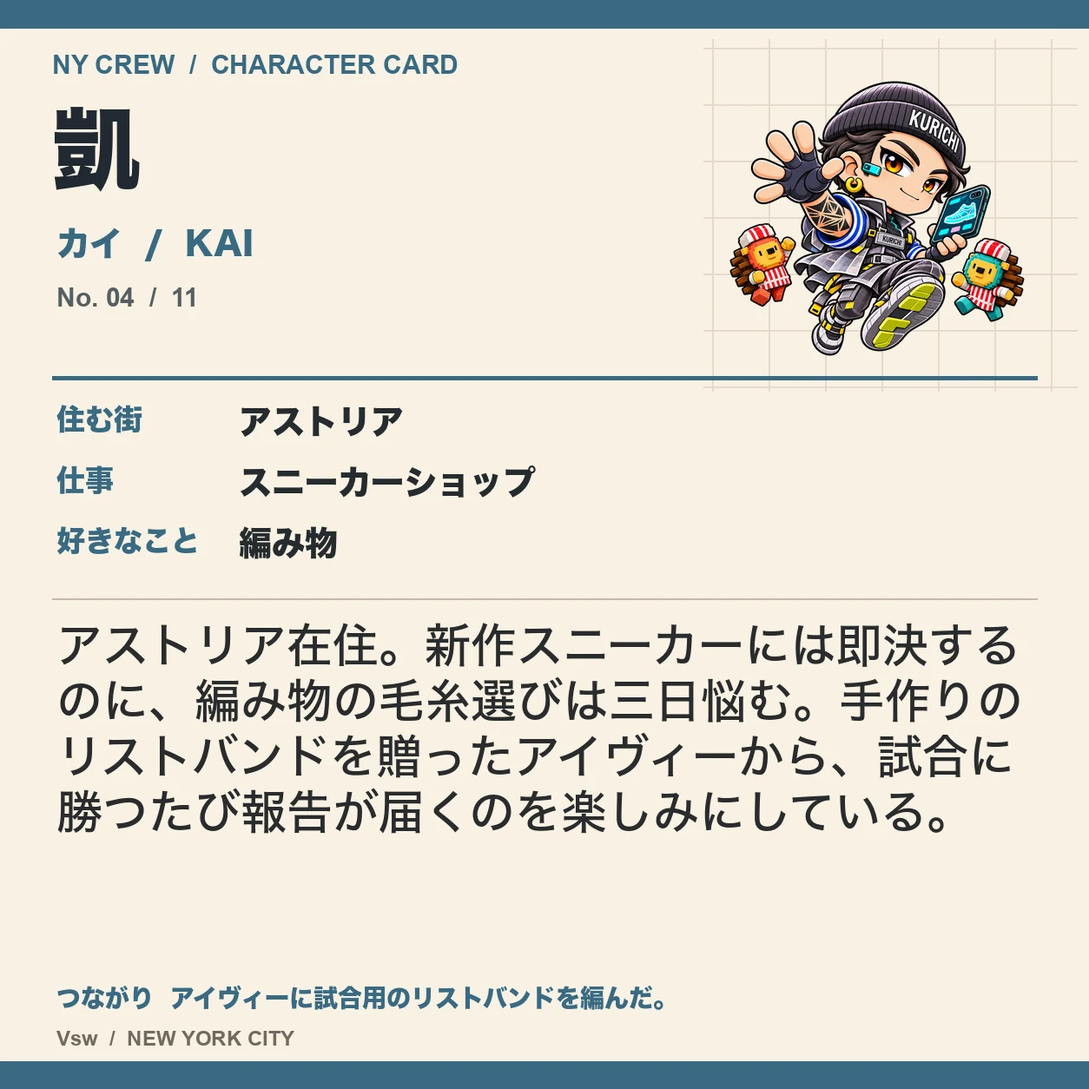
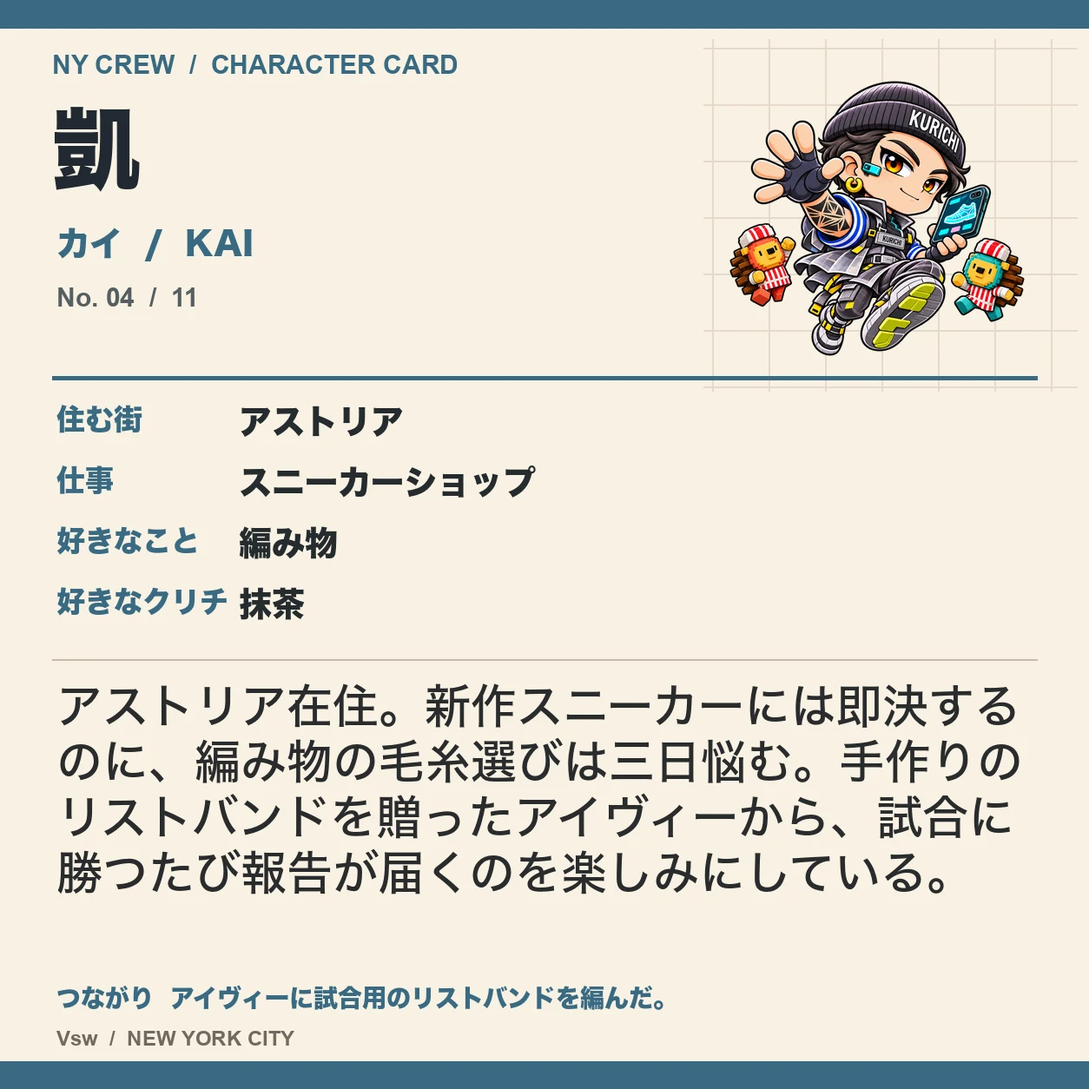
Add favorite Kurichi flavor to all character backs and profiles

Changed region(s): [[0.0311, 0.5287, 0.933, 0.8397]]

diff --git a/kurichi-stickers2/assets/characters.js b/kurichi-stickers2/assets/characters.js
@@ -1,1 +1,1 @@
-window.NY_CHARACTERS = [{"id":"01","name":"樹乃","reading":"ジュノ","roman":"JUNO","role":"セレクトショップ","hobby":"屋上でミニトマトを育てる","personality":"口数は少ないが、人と服をよく見ている。","back_text":"ソーホーに暮らす、口数の少ない服の目利き。趣味は屋上でのミニトマト栽培。「明日がいちばん甘い」と収穫を延ばしては、花屋のフローラに見つかってしまう。","connections":[{"id":"08","detail":"フローラに菜園の相談をする。"},{"id":"10","detail":"ルクスに屋上を野鳥観察の場所として開放する。"}],"borough":"Manhattan","neighborhood":"ソーホー","neighborhoodEn":"SoHo","front":"assets/stickers/01-front.webp?v=2p2-20261118","back":"assets/stickers/01-back.webp?v=2p2-20261118","thumb":"assets/stickers/01-thumb.webp","character":"assets/01-character.webp"},{"id":"02","name":"舞路","reading":"マイロ","roman":"MILO","role":"古着屋","hobby":"デジタルNYに小さな駅を作る","personality":"人の話を最後まで聞く、世話好き。","back_text":"ローワー・イースト・サイド在住。古着の来歴を聞くのが好きな世話焼き。夜はデジタルNYに小さな駅を作っている。完成した翌日には改築を始め、試運転係のルクスを困らせる。","connections":[{"id":"10","detail":"ルクスが駅の試運転係。"},{"id":"07","detail":"ノアに古い折り畳み椅子を貸している。"}],"borough":"Manhattan","neighborhood":"ローワー・イースト・サイド","neighborhoodEn":"Lower East Side","front":"assets/stickers/02-front.webp?v=2p2-20261118","back":"assets/stickers/02-back.webp?v=2p2-20261118","thumb":"assets/stickers/02-thumb.webp","character":"assets/02-character.webp"},{"id":"03","name":"瑠比","reading":"ルビー","roman":"RUBY","role":"カフェ","hobby":"匿名で短編小説を書く","personality":"常連の小さな変化に気づく、気配り上手。","back_text":"ハーレム在住。客の小さな変化に気づくカフェスタッフ。閉店後は匿名で短編小説を書き、感想が気になって端末を何度も見る。最初の読者アイヴィーだけが、その正体を知っている。","connections":[{"id":"06","detail":"アイヴィーだけが匿名作家の正体を知る。"},{"id":"09","detail":"レンが手作り餃子を差し入れてくれる。"}],"borough":"Manhattan","neighborhood":"ハーレム","neighborhoodEn":"Harlem","front":"assets/stickers/03-front.webp?v=2p2-20261118","back":"assets/stickers/03-back.webp?v=2p2-20261118","thumb":"assets/stickers/03-thumb.webp","character":"assets/03-character.webp"},{"id":"04","name":"凱","reading":"カイ","roman":"KAI","role":"スニーカーショップ","hobby":"編み物","personality":"勝負には全力で、贈り物には慎重。","back_text":"アストリア在住。新作スニーカーには即決するのに、編み物の毛糸選びは三日悩む。手作りのリストバンドを贈ったアイヴィーから、試合に勝つたび報告が届くのを楽しみにしている。","connections":[{"id":"06","detail":"アイヴィーに試合用のリストバンドを編んだ。"}],"borough":"Queens","neighborhood":"アストリア","neighborhoodEn":"Astoria","front":"assets/stickers/04-front.webp?v=2p2-20261118","back":"assets/stickers/04-back.webp?v=2p2-20261118","thumb":"assets/stickers/04-thumb.webp","character":"assets/04-character.webp"},{"id":"05","name":"玲夢","reading":"レム","roman":"REM","role":"レコードショップ","hobby":"盆栽を育てる","personality":"聞き上手で、すぐに結論を出さない。","back_text":"イースト・ヴィレッジ在住。聞き上手なレコード店員で、趣味は盆栽。鉢ごとに専用のプレイリストがあり、枝の手入れより選曲に時間がかかる。植物の相談相手は、花屋のフローラ。","connections":[{"id":"08","detail":"フローラに植物の相談をし、映画のサントラを貸す。"}],"borough":"Manhattan","neighborhood":"イースト・ヴィレッジ","neighborhoodEn":"East Village","front":"assets/stickers/05-front.webp?v=2p2-20261118","back":"assets/stickers/05-back.webp?v=2p2-20261118","thumb":"assets/stickers/05-thumb.webp","character":"assets/05-character.webp"},{"id":"06","name":"藍美","reading":"アイヴィー","roman":"IVY","role":"書店","hobby":"路上バスケ","personality":"普段は控えめ、好きなことには熱い。","back_text":"グリニッジ・ヴィレッジ在住。普段は小声で話す書店員だが、休日のバスケでは誰より熱い。カイが編んだリストバンドはお守り。ルビーの小説を最初に読めることも、小さな自慢だ。","connections":[{"id":"04","detail":"カイの手編みリストバンドをお守りにしている。"},{"id":"03","detail":"ルビーの小説の最初の読者。"}],"borough":"Manhattan","neighborhood":"グリニッジ・ヴィレッジ","neighborhoodEn":"Greenwich Village","front":"assets/stickers/06-front.webp?v=2p2-20261118","back":"assets/stickers/06-back.webp?v=2p2-20261118","thumb":"assets/stickers/06-thumb.webp","character":"assets/06-character.webp"},{"id":"07","name":"乃亜","reading":"ノア","roman":"NOAH","role":"デザイン雑貨店","hobby":"川辺で釣りをする","personality":"合理的に見えて、実は寄り道好き。","back_text":"ロングアイランドシティ在住。無駄のない道具を選ぶ雑貨店員なのに、休日は寄り道ばかり。趣味は川辺の釣り。マイロに借りた古い椅子が相棒で、釣れない日ほど帰ってからの話が長い。","connections":[{"id":"02","detail":"マイロに借りた古い椅子を釣りに持っていく。"},{"id":"11","detail":"ココのすごろく用の駒を作る。"}],"borough":"Queens","neighborhood":"ロングアイランドシティ","neighborhoodEn":"Long Island City","front":"assets/stickers/07-front.webp?v=2p2-20261118","back":"assets/stickers/07-back.webp?v=2p2-20261118","thumb":"assets/stickers/07-thumb.webp","character":"assets/07-character.webp"},{"id":"08","name":"芙楼羅","reading":"フローラ","roman":"FLORA","role":"花屋","hobby":"昔のSF映画を観る","personality":"さっぱりしているが、弱った植物には甘い。","back_text":"ブルックリンのパークスロープ在住。さっぱりした花屋スタッフだが、弱った植物にはとことん甘い。古いSF映画が好きで、水やり中につい名ぜりふが出る。レムとはサントラを貸し借りする仲。","connections":[{"id":"05","detail":"レムと映画のサントラを貸し借りする。"},{"id":"01","detail":"ジュノの屋上菜園を見守る。"}],"borough":"Brooklyn","neighborhood":"パークスロープ","neighborhoodEn":"Park Slope","front":"assets/stickers/08-front.webp?v=2p2-20261118","back":"assets/stickers/08-back.webp?v=2p2-20261118","thumb":"assets/stickers/08-thumb.webp","character":"assets/08-character.webp"},{"id":"09","name":"蓮","reading":"レン","roman":"LEN","role":"アイウェアショップ","hobby":"餃子を作る","personality":"穏やかで、ときどき冗談が鋭い。","back_text":"アッパー・ウエスト・サイド在住。穏やかな物腰に、時々鋭い冗談が混じるメガネ店員。休日は餃子作り。人数分を数えたはずが毎回作りすぎ、ルビーの店への差し入れになる。","connections":[{"id":"03","detail":"余った餃子をルビーのカフェに差し入れる。"}],"borough":"Manhattan","neighborhood":"アッパー・ウエスト・サイド","neighborhoodEn":"Upper West Side","front":"assets/stickers/09-front.webp?v=2p2-20261118","back":"assets/stickers/09-back.webp?v=2p2-20261118","thumb":"assets/stickers/09-thumb.webp","character":"assets/09-character.webp"},{"id":"10","name":"瑠玖珠","reading":"ルクス","roman":"LUX","role":"モード系アパレル","hobby":"早朝の野鳥観察","personality":"見た目は大胆、話すと丁寧。","back_text":"ウィリアムズバーグ在住。大胆な服を着こなす一方、趣味は早朝の野鳥観察。鳥に夢中で左右違う靴下のまま出かけることも。ジュノの屋上菜園は、お気に入りの観察スポットだ。","connections":[{"id":"01","detail":"ジュノの屋上菜園で鳥を観察する。"},{"id":"02","detail":"マイロが作る仮想駅の試運転係。"}],"borough":"Brooklyn","neighborhood":"ウィリアムズバーグ","neighborhoodEn":"Williamsburg","front":"assets/stickers/10-front.webp?v=2p2-20261118","back":"assets/stickers/10-back.webp?v=2p2-20261118","thumb":"assets/stickers/10-thumb.webp","character":"assets/10-character.webp"},{"id":"11","name":"心々","reading":"ココ","roman":"COCO","role":"Vswの看板娘","hobby":"街を歩き、自作のNYすごろくを作る","personality":"初対面でも相手の名前を覚える、街のつなぎ役。","back_text":"チェルシーに暮らすVswの看板娘。一度会った人の名前をよく覚えている。趣味は街歩きと、見つけた店をマスにする「NYすごろく」作り。寄り道で増えたショップカードが、エプロンのポケットからいつもはみ出している。","connections":[{"id":"07","detail":"ノアにすごろくの駒を作ってもらう。"},{"id":"all","detail":"みんなのお店をすごろくのマスにしている。"}],"borough":"Manhattan","neighborhood":"チェルシー","neighborhoodEn":"Chelsea","front":"assets/stickers/11-front.webp?v=2p2-20261118","back":"assets/stickers/11-back.webp?v=2p2-20261118","thumb":"assets/stickers/11-thumb.webp","character":"assets/11-character.webp"}];
+window.NY_CHARACTERS = [{"id":"01","name":"樹乃","reading":"ジュノ","roman":"JUNO","role":"セレクトショップ","hobby":"屋上でミニトマトを育てる","personality":"口数は少ないが、人と服をよく見ている。","back_text":"ソーホーに暮らす、口数の少ない服の目利き。趣味は屋上でのミニトマト栽培。「明日がいちばん甘い」と収穫を延ばしては、花屋のフローラに見つかってしまう。","connections":[{"id":"08","detail":"フローラに菜園の相談をする。"},{"id":"10","detail":"ルクスに屋上を野鳥観察の場所として開放する。"}],"borough":"Manhattan","neighborhood":"ソーホー","neighborhoodEn":"SoHo","front":"assets/stickers/01-front.webp?v=2p2-20261118","back":"assets/stickers/01-back.webp?v=favorites-20261118","thumb":"assets/stickers/01-thumb.webp","character":"assets/01-character.webp","favorite_kurichi":"いちご"},{"id":"02","name":"舞路","reading":"マイロ","roman":"MILO","role":"古着屋","hobby":"デジタルNYに小さな駅を作る","personality":"人の話を最後まで聞く、世話好き。","back_text":"ローワー・イースト・サイド在住。古着の来歴を聞くのが好きな世話焼き。夜はデジタルNYに小さな駅を作っている。完成した翌日には改築を始め、試運転係のルクスを困らせる。","connections":[{"id":"10","detail":"ルクスが駅の試運転係。"},{"id":"07","detail":"ノアに古い折り畳み椅子を貸している。"}],"borough":"Manhattan","neighborhood":"ローワー・イースト・サイド","neighborhoodEn":"Lower East Side","front":"assets/stickers/02-front.webp?v=2p2-20261118","back":"assets/stickers/02-back.webp?v=favorites-20261118","thumb":"assets/stickers/02-thumb.webp","character":"assets/02-character.webp","favorite_kurichi":"チョコ"},{"id":"03","name":"瑠比","reading":"ルビー","roman":"RUBY","role":"カフェ","hobby":"匿名で短編小説を書く","personality":"常連の小さな変化に気づく、気配り上手。","back_text":"ハーレム在住。客の小さな変化に気づくカフェスタッフ。閉店後は匿名で短編小説を書き、感想が気になって端末を何度も見る。最初の読者アイヴィーだけが、その正体を知っている。","connections":[{"id":"06","detail":"アイヴィーだけが匿名作家の正体を知る。"},{"id":"09","detail":"レンが手作り餃子を差し入れてくれる。"}],"borough":"Manhattan","neighborhood":"ハーレム","neighborhoodEn":"Harlem","front":"assets/stickers/03-front.webp?v=2p2-20261118","back":"assets/stickers/03-back.webp?v=favorites-20261118","thumb":"assets/stickers/03-thumb.webp","character":"assets/03-character.webp","favorite_kurichi":"レモンピール"},{"id":"04","name":"凱","reading":"カイ","roman":"KAI","role":"スニーカーショップ","hobby":"編み物","personality":"勝負には全力で、贈り物には慎重。","back_text":"アストリア在住。新作スニーカーには即決するのに、編み物の毛糸選びは三日悩む。手作りのリストバンドを贈ったアイヴィーから、試合に勝つたび報告が届くのを楽しみにしている。","connections":[{"id":"06","detail":"アイヴィーに試合用のリストバンドを編んだ。"}],"borough":"Queens","neighborhood":"アストリア","neighborhoodEn":"Astoria","front":"assets/stickers/04-front.webp?v=2p2-20261118","back":"assets/stickers/04-back.webp?v=favorites-20261118","thumb":"assets/stickers/04-thumb.webp","character":"assets/04-character.webp","favorite_kurichi":"抹茶"},{"id":"05","name":"玲夢","reading":"レム","roman":"REM","role":"レコードショップ","hobby":"盆栽を育てる","personality":"聞き上手で、すぐに結論を出さない。","back_text":"イースト・ヴィレッジ在住。聞き上手なレコード店員で、趣味は盆栽。鉢ごとに専用のプレイリストがあり、枝の手入れより選曲に時間がかかる。植物の相談相手は、花屋のフローラ。","connections":[{"id":"08","detail":"フローラに植物の相談をし、映画のサントラを貸す。"}],"borough":"Manhattan","neighborhood":"イースト・ヴィレッジ","neighborhoodEn":"East Village","front":"assets/stickers/05-front.webp?v=2p2-20261118","back":"assets/stickers/05-back.webp?v=favorites-20261118","thumb":"assets/stickers/05-thumb.webp","character":"assets/05-character.webp","favorite_kurichi":"ラムレーズン"},{"id":"06","name":"藍美","reading":"アイヴィー","roman":"IVY","role":"書店","hobby":"路上バスケ","personality":"普段は控えめ、好きなことには熱い。","back_text":"グリニッジ・ヴィレッジ在住。普段は小声で話す書店員だが、休日のバスケでは誰より熱い。カイが編んだリストバンドはお守り。ルビーの小説を最初に読めることも、小さな自慢だ。","connections":[{"id":"04","detail":"カイの手編みリストバンドをお守りにしている。"},{"id":"03","detail":"ルビーの小説の最初の読者。"}],"borough":"Manhattan","neighborhood":"グリニッジ・ヴィレッジ","neighborhoodEn":"Greenwich Village","front":"assets/stickers/06-front.webp?v=2p2-20261118","back":"assets/stickers/06-back.webp?v=favorites-20261118","thumb":"assets/stickers/06-thumb.webp","character":"assets/06-character.webp","favorite_kurichi":"クランベリーナッツ"},{"id":"07","name":"乃亜","reading":"ノア","roman":"NOAH","role":"デザイン雑貨店","hobby":"川辺で釣りをする","personality":"合理的に見えて、実は寄り道好き。","back_text":"ロングアイランドシティ在住。無駄のない道具を選ぶ雑貨店員なのに、休日は寄り道ばかり。趣味は川辺の釣り。マイロに借りた古い椅子が相棒で、釣れない日ほど帰ってからの話が長い。","connections":[{"id":"02","detail":"マイロに借りた古い椅子を釣りに持っていく。"},{"id":"11","detail":"ココのすごろく用の駒を作る。"}],"borough":"Queens","neighborhood":"ロングアイランドシティ","neighborhoodEn":"Long Island City","front":"assets/stickers/07-front.webp?v=2p2-20261118","back":"assets/stickers/07-back.webp?v=favorites-20261118","thumb":"assets/stickers/07-thumb.webp","character":"assets/07-character.webp","favorite_kurichi":"抹茶"},{"id":"08","name":"芙楼羅","reading":"フローラ","roman":"FLORA","role":"花屋","hobby":"昔のSF映画を観る","personality":"さっぱりしているが、弱った植物には甘い。","back_text":"ブルックリンのパークスロープ在住。さっぱりした花屋スタッフだが、弱った植物にはとことん甘い。古いSF映画が好きで、水やり中につい名ぜりふが出る。レムとはサントラを貸し借りする仲。","connections":[{"id":"05","detail":"レムと映画のサントラを貸し借りする。"},{"id":"01","detail":"ジュノの屋上菜園を見守る。"}],"borough":"Brooklyn","neighborhood":"パークスロープ","neighborhoodEn":"Park Slope","front":"assets/stickers/08-front.webp?v=2p2-20261118","back":"assets/stickers/08-back.webp?v=favorites-20261118","thumb":"assets/stickers/08-thumb.webp","character":"assets/08-character.webp","favorite_kurichi":"いちご"},{"id":"09","name":"蓮","reading":"レン","roman":"LEN","role":"アイウェアショップ","hobby":"餃子を作る","personality":"穏やかで、ときどき冗談が鋭い。","back_text":"アッパー・ウエスト・サイド在住。穏やかな物腰に、時々鋭い冗談が混じるメガネ店員。休日は餃子作り。人数分を数えたはずが毎回作りすぎ、ルビーの店への差し入れになる。","connections":[{"id":"03","detail":"余った餃子をルビーのカフェに差し入れる。"}],"borough":"Manhattan","neighborhood":"アッパー・ウエスト・サイド","neighborhoodEn":"Upper West Side","front":"assets/stickers/09-front.webp?v=2p2-20261118","back":"assets/stickers/09-back.webp?v=favorites-20261118","thumb":"assets/stickers/09-thumb.webp","character":"assets/09-character.webp","favorite_kurichi":"レモンピール"},{"id":"10","name":"瑠玖珠","reading":"ルクス","roman":"LUX","role":"モード系アパレル","hobby":"早朝の野鳥観察","personality":"見た目は大胆、話すと丁寧。","back_text":"ウィリアムズバーグ在住。大胆な服を着こなす一方、趣味は早朝の野鳥観察。鳥に夢中で左右違う靴下のまま出かけることも。ジュノの屋上菜園は、お気に入りの観察スポットだ。","connections":[{"id":"01","detail":"ジュノの屋上菜園で鳥を観察する。"},{"id":"02","detail":"マイロが作る仮想駅の試運転係。"}],"borough":"Brooklyn","neighborhood":"ウィリアムズバーグ","neighborhoodEn":"Williamsburg","front":"assets/stickers/10-front.webp?v=2p2-20261118","back":"assets/stickers/10-back.webp?v=favorites-20261118","thumb":"assets/stickers/10-thumb.webp","character":"assets/10-character.webp","favorite_kurichi":"チョコ"},{"id":"11","name":"心々","reading":"ココ","roman":"COCO","role":"Vswの看板娘","hobby":"街を歩き、自作のNYすごろくを作る","personality":"初対面でも相手の名前を覚える、街のつなぎ役。","back_text":"チェルシーに暮らすVswの看板娘。一度会った人の名前をよく覚えている。趣味は街歩きと、見つけた店をマスにする「NYすごろく」作り。寄り道で増えたショップカードが、エプロンのポケットからいつもはみ出している。","connections":[{"id":"07","detail":"ノアにすごろくの駒を作ってもらう。"},{"id":"all","detail":"みんなのお店をすごろくのマスにしている。"}],"borough":"Manhattan","neighborhood":"チェルシー","neighborhoodEn":"Chelsea","front":"assets/stickers/11-front.webp?v=2p2-20261118","back":"assets/stickers/11-back.webp?v=favorites-20261118","thumb":"assets/stickers/11-thumb.webp","character":"assets/11-character.webp","favorite_kurichi":"プレーン"}];

diff --git a/kurichi-stickers2/index.html b/kurichi-stickers2/index.html
@@ -21,8 +21,8 @@
   <title>この街には、好きがある。｜NY KURICHI STICKER COLLECTION</title>
   <link rel="icon" href="../kurichi-stickers/assets/favicon.svg" type="image/svg+xml">
   <link rel="stylesheet" href="style.css">
-  <script src="assets/characters.js?v=2p2-20261118" defer></script>
-  <script src="script.js" defer></script>
+  <script src="assets/characters.js?v=favorites-20261118" defer></script>
+  <script src="script.js?v=favorites-20261118" defer></script>
 </head>
 <body>
   <a class="skip-link" href="#main">本文へ移動</a>
@@ -63,7 +63,7 @@
       <div class="collection-controls"><div class="filter-list" role="group" aria-label="住んでいる地区で絞り込む"><button type="button" data-filter="all" aria-pressed="true">全員 <span>11</span></button><button type="button" data-filter="Manhattan" aria-pressed="false">マンハッタン <span>07</span></button><button type="button" data-filter="Brooklyn" aria-pressed="false">ブルックリン <span>02</span></button><button type="button" data-filter="Queens" aria-pressed="false">クイーンズ <span>02</span></button></div><span class="collection-count" aria-hidden="true">ALL 11 / 11</span></div>
       <p class="sr-only" id="filter-status" role="status" aria-live="polite">全11人を表示しています</p>
       <ul class="gallery" id="gallery"></ul>
-      <noscript><div class="noscript-collection"><p>この環境ではシールの切り替えは使えません。11人のプロフィールをここで読めます。</p><ol><li><span>NO. 01 / マンハッタン</span><h3>樹乃 <small>ジュノ</small></h3><p>セレクトショップ · ソーホー在住<br>趣味：屋上でミニトマトを育てる</p><p>ソーホーに暮らす、口数の少ない服の目利き。趣味は屋上でのミニトマト栽培。「明日がいちばん甘い」と収穫を延ばしては、花屋のフローラに見つかってしまう。</p><p>つながる仲間：フローラ、ルクス</p></li><li><span>NO. 02 / マンハッタン</span><h3>舞路 <small>マイロ</small></h3><p>古着屋 · ローワー・イースト・サイド在住<br>趣味：デジタルNYに小さな駅を作る</p><p>ローワー・イースト・サイド在住。古着の来歴を聞くのが好きな世話焼き。夜はデジタルNYに小さな駅を作っている。完成した翌日には改築を始め、試運転係のルクスを困らせる。</p><p>つながる仲間：ルクス、ノア</p></li><li><span>NO. 03 / マンハッタン</span><h3>瑠比 <small>ルビー</small></h3><p>カフェ · ハーレム在住<br>趣味：匿名で短編小説を書く</p><p>ハーレム在住。客の小さな変化に気づくカフェスタッフ。閉店後は匿名で短編小説を書き、感想が気になって端末を何度も見る。最初の読者アイヴィーだけが、その正体を知っている。</p><p>つながる仲間：アイヴィー、レン</p></li><li><span>NO. 04 / クイーンズ</span><h3>凱 <small>カイ</small></h3><p>スニーカーショップ · アストリア在住<br>趣味：編み物</p><p>アストリア在住。新作スニーカーには即決するのに、編み物の毛糸選びは三日悩む。手作りのリストバンドを贈ったアイヴィーから、試合に勝つたび報告が届くのを楽しみにしている。</p><p>つながる仲間：アイヴィー</p></li><li><span>NO. 05 / マンハッタン</span><h3>玲夢 <small>レム</small></h3><p>レコードショップ · イースト・ヴィレッジ在住<br>趣味：盆栽を育てる</p><p>イースト・ヴィレッジ在住。聞き上手なレコード店員で、趣味は盆栽。鉢ごとに専用のプレイリストがあり、枝の手入れより選曲に時間がかかる。植物の相談相手は、花屋のフローラ。</p><p>つながる仲間：フローラ</p></li><li><span>NO. 06 / マンハッタン</span><h3>藍美 <small>アイヴィー</small></h3><p>書店 · グリニッジ・ヴィレッジ在住<br>趣味：路上バスケ</p><p>グリニッジ・ヴィレッジ在住。普段は小声で話す書店員だが、休日のバスケでは誰より熱い。カイが編んだリストバンドはお守り。ルビーの小説を最初に読めることも、小さな自慢だ。</p><p>つながる仲間：カイ、ルビー</p></li><li><span>NO. 07 / クイーンズ</span><h3>乃亜 <small>ノア</small></h3><p>デザイン雑貨店 · ロングアイランドシティ在住<br>趣味：川辺で釣りをする</p><p>ロングアイランドシティ在住。無駄のない道具を選ぶ雑貨店員なのに、休日は寄り道ばかり。趣味は川辺の釣り。マイロに借りた古い椅子が相棒で、釣れない日ほど帰ってからの話が長い。</p><p>つながる仲間：マイロ、ココ</p></li><li><span>NO. 08 / ブルックリン</span><h3>芙楼羅 <small>フローラ</small></h3><p>花屋 · パークスロープ在住<br>趣味：昔のSF映画を観る</p><p>ブルックリンのパークスロープ在住。さっぱりした花屋スタッフだが、弱った植物にはとことん甘い。古いSF映画が好きで、水やり中につい名ぜりふが出る。レムとはサントラを貸し借りする仲。</p><p>つながる仲間：レム、ジュノ</p></li><li><span>NO. 09 / マンハッタン</span><h3>蓮 <small>レン</small></h3><p>アイウェアショップ · アッパー・ウエスト・サイド在住<br>趣味：餃子を作る</p><p>アッパー・ウエスト・サイド在住。穏やかな物腰に、時々鋭い冗談が混じるメガネ店員。休日は餃子作り。人数分を数えたはずが毎回作りすぎ、ルビーの店への差し入れになる。</p><p>つながる仲間：ルビー</p></li><li><span>NO. 10 / ブルックリン</span><h3>瑠玖珠 <small>ルクス</small></h3><p>モード系アパレル · ウィリアムズバーグ在住<br>趣味：早朝の野鳥観察</p><p>ウィリアムズバーグ在住。大胆な服を着こなす一方、趣味は早朝の野鳥観察。鳥に夢中で左右違う靴下のまま出かけることも。ジュノの屋上菜園は、お気に入りの観察スポットだ。</p><p>つながる仲間：ジュノ、マイロ</p></li><li><span>NO. 11 / マンハッタン</span><h3>心々 <small>ココ</small></h3><p>Vswの看板娘 · チェルシー在住<br>趣味：街を歩き、自作のNYすごろくを作る</p><p>チェルシーに暮らすVswの看板娘。一度会った人の名前をよく覚えている。趣味は街歩きと、見つけた店をマスにする「NYすごろく」作り。寄り道で増えたショップカードが、エプロンのポケットからいつもはみ出している。</p><p>つながる仲間：ノア</p></li></ol></div></noscript>
+      <noscript><div class="noscript-collection"><p>この環境ではシールの切り替えは使えません。11人のプロフィールをここで読めます。</p><ol><li><span>NO. 01 / マンハッタン</span><h3>樹乃 <small>ジュノ</small></h3><p>セレクトショップ · ソーホー在住<br>趣味：屋上でミニトマトを育てる<br>好きなクリチ：いちご</p><p>ソーホーに暮らす、口数の少ない服の目利き。趣味は屋上でのミニトマト栽培。「明日がいちばん甘い」と収穫を延ばしては、花屋のフローラに見つかってしまう。</p><p>つながる仲間：フローラ、ルクス</p></li><li><span>NO. 02 / マンハッタン</span><h3>舞路 <small>マイロ</small></h3><p>古着屋 · ローワー・イースト・サイド在住<br>趣味：デジタルNYに小さな駅を作る<br>好きなクリチ：チョコ</p><p>ローワー・イースト・サイド在住。古着の来歴を聞くのが好きな世話焼き。夜はデジタルNYに小さな駅を作っている。完成した翌日には改築を始め、試運転係のルクスを困らせる。</p><p>つながる仲間：ルクス、ノア</p></li><li><span>NO. 03 / マンハッタン</span><h3>瑠比 <small>ルビー</small></h3><p>カフェ · ハーレム在住<br>趣味：匿名で短編小説を書く<br>好きなクリチ：レモンピール</p><p>ハーレム在住。客の小さな変化に気づくカフェスタッフ。閉店後は匿名で短編小説を書き、感想が気になって端末を何度も見る。最初の読者アイヴィーだけが、その正体を知っている。</p><p>つながる仲間：アイヴィー、レン</p></li><li><span>NO. 04 / クイーンズ</span><h3>凱 <small>カイ</small></h3><p>スニーカーショップ · アストリア在住<br>趣味：編み物<br>好きなクリチ：抹茶</p><p>アストリア在住。新作スニーカーには即決するのに、編み物の毛糸選びは三日悩む。手作りのリストバンドを贈ったアイヴィーから、試合に勝つたび報告が届くのを楽しみにしている。</p><p>つながる仲間：アイヴィー</p></li><li><span>NO. 05 / マンハッタン</span><h3>玲夢 <small>レム</small></h3><p>レコードショップ · イースト・ヴィレッジ在住<br>趣味：盆栽を育てる<br>好きなクリチ：ラムレーズン</p><p>イースト・ヴィレッジ在住。聞き上手なレコード店員で、趣味は盆栽。鉢ごとに専用のプレイリストがあり、枝の手入れより選曲に時間がかかる。植物の相談相手は、花屋のフローラ。</p><p>つながる仲間：フローラ</p></li><li><span>NO. 06 / マンハッタン</span><h3>藍美 <small>アイヴィー</small></h3><p>書店 · グリニッジ・ヴィレッジ在住<br>趣味：路上バスケ<br>好きなクリチ：クランベリーナッツ</p><p>グリニッジ・ヴィレッジ在住。普段は小声で話す書店員だが、休日のバスケでは誰より熱い。カイが編んだリストバンドはお守り。ルビーの小説を最初に読めることも、小さな自慢だ。</p><p>つながる仲間：カイ、ルビー</p></li><li><span>NO. 07 / クイーンズ</span><h3>乃亜 <small>ノア</small></h3><p>デザイン雑貨店 · ロングアイランドシティ在住<br>趣味：川辺で釣りをする<br>好きなクリチ：抹茶</p><p>ロングアイランドシティ在住。無駄のない道具を選ぶ雑貨店員なのに、休日は寄り道ばかり。趣味は川辺の釣り。マイロに借りた古い椅子が相棒で、釣れない日ほど帰ってからの話が長い。</p><p>つながる仲間：マイロ、ココ</p></li><li><span>NO. 08 / ブルックリン</span><h3>芙楼羅 <small>フローラ</small></h3><p>花屋 · パークスロープ在住<br>趣味：昔のSF映画を観る<br>好きなクリチ：いちご</p><p>ブルックリンのパークスロープ在住。さっぱりした花屋スタッフだが、弱った植物にはとことん甘い。古いSF映画が好きで、水やり中につい名ぜりふが出る。レムとはサントラを貸し借りする仲。</p><p>つながる仲間：レム、ジュノ</p></li><li><span>NO. 09 / マンハッタン</span><h3>蓮 <small>レン</small></h3><p>アイウェアショップ · アッパー・ウエスト・サイド在住<br>趣味：餃子を作る<br>好きなクリチ：レモンピール</p><p>アッパー・ウエスト・サイド在住。穏やかな物腰に、時々鋭い冗談が混じるメガネ店員。休日は餃子作り。人数分を数えたはずが毎回作りすぎ、ルビーの店への差し入れになる。</p><p>つながる仲間：ルビー</p></li><li><span>NO. 10 / ブルックリン</span><h3>瑠玖珠 <small>ルクス</small></h3><p>モード系アパレル · ウィリアムズバーグ在住<br>趣味：早朝の野鳥観察<br>好きなクリチ：チョコ</p><p>ウィリアムズバーグ在住。大胆な服を着こなす一方、趣味は早朝の野鳥観察。鳥に夢中で左右違う靴下のまま出かけることも。ジュノの屋上菜園は、お気に入りの観察スポットだ。</p><p>つながる仲間：ジュノ、マイロ</p></li><li><span>NO. 11 / マンハッタン</span><h3>心々 <small>ココ</small></h3><p>Vswの看板娘 · チェルシー在住<br>趣味：街を歩き、自作のNYすごろくを作る<br>好きなクリチ：プレーン</p><p>チェルシーに暮らすVswの看板娘。一度会った人の名前をよく覚えている。趣味は街歩きと、見つけた店をマスにする「NYすごろく」作り。寄り道で増えたショップカードが、エプロンのポケットからいつもはみ出している。</p><p>つながる仲間：ノア</p></li></ol></div></noscript>
       <p class="collection-note">気になる人を選ぶと、シールの表と裏、そして仲間とのつながりが見られます。</p>
     </section>
 
@@ -86,7 +86,7 @@
   <footer><a class="footer-brand" href="#top">NY KURICHI <span>STICKER COLLECTION</span></a><div><a href="https://vsw.co.jp/" target="_blank" rel="noopener noreferrer">Vsw 公式サイト ↗</a><a href="../kurichi-stickers/">クリチのシールコレクション ↗</a></div><small>© Vsw. All rights reserved.</small></footer>
 
   <dialog id="character-dialog" aria-labelledby="dialog-name" aria-describedby="dialog-summary">
-    <div class="dialog-wrap"><div class="dialog-top"><span id="dialog-id">NO. 01 / MANHATTAN</span><button class="dialog-close" type="button" aria-label="詳細を閉じる">×</button></div><div class="dialog-layout"><div class="dialog-visual"><img id="dialog-image" src="assets/stickers/01-front.webp" alt="" width="900" height="900"><div class="face-switch" role="group" aria-label="シールの面を切り替える"><button type="button" data-face="front" aria-pressed="true">表を見る</button><button type="button" data-face="back" aria-pressed="false">裏を見る</button></div></div><div class="dialog-copy"><span id="dialog-roman">JUNO</span><h2 id="dialog-name">樹乃 <small>ジュノ</small></h2><p id="dialog-summary" class="dialog-summary">ソーホーに暮らし、セレクトショップで働く。</p><div class="profile-grid"><div><span>WORK</span><strong id="dialog-role"></strong></div><div><span>NEIGHBORHOOD</span><strong id="dialog-neighborhood"></strong></div><div><span>AFTER HOURS</span><strong id="dialog-hobby"></strong></div><div><span>CHARACTER</span><strong id="dialog-personality"></strong></div></div><p id="dialog-story" class="dialog-story"></p><div class="dialog-related"><span>この街の、つながり</span><div id="dialog-connections"></div></div><div class="dialog-nav"><button id="prev-character" type="button">← 前の人</button><span id="dialog-position">01 / 11</span><button id="next-character" type="button">次の人 →</button></div></div></div></div>
+    <div class="dialog-wrap"><div class="dialog-top"><span id="dialog-id">NO. 01 / MANHATTAN</span><button class="dialog-close" type="button" aria-label="詳細を閉じる">×</button></div><div class="dialog-layout"><div class="dialog-visual"><img id="dialog-image" src="assets/stickers/01-front.webp" alt="" width="900" height="900"><div class="face-switch" role="group" aria-label="シールの面を切り替える"><button type="button" data-face="front" aria-pressed="true">表を見る</button><button type="button" data-face="back" aria-pressed="false">裏を見る</button></div></div><div class="dialog-copy"><span id="dialog-roman">JUNO</span><h2 id="dialog-name">樹乃 <small>ジュノ</small></h2><p id="dialog-summary" class="dialog-summary">ソーホーに暮らし、セレクトショップで働く。</p><div class="profile-grid"><div><span>WORK</span><strong id="dialog-role"></strong></div><div><span>NEIGHBORHOOD</span><strong id="dialog-neighborhood"></strong></div><div><span>AFTER HOURS</span><strong id="dialog-hobby"></strong></div><div><span>好きなクリチ</span><strong id="dialog-favorite-kurichi"></strong></div><div><span>CHARACTER</span><strong id="dialog-personality"></strong></div></div><p id="dialog-story" class="dialog-story"></p><div class="dialog-related"><span>この街の、つながり</span><div id="dialog-connections"></div></div><div class="dialog-nav"><button id="prev-character" type="button">← 前の人</button><span id="dialog-position">01 / 11</span><button id="next-character" type="button">次の人 →</button></div></div></div></div>
   </dialog>
 </body>
 </html>

diff --git a/kurichi-stickers2/script.js b/kurichi-stickers2/script.js
@@ -64,6 +64,7 @@
     document.querySelector('#dialog-role').textContent = person.role;
     document.querySelector('#dialog-neighborhood').textContent = `${person.neighborhood} / ${boroughJa[person.borough]}`;
     document.querySelector('#dialog-hobby').textContent = person.hobby;
+    document.querySelector('#dialog-favorite-kurichi').textContent = person.favorite_kurichi;
     document.querySelector('#dialog-personality').textContent = person.personality;
     document.querySelector('#dialog-story').textContent = person.back_text;
     document.querySelectorAll('[data-face]').forEach(button => button.setAttribute('aria-pressed', String(button.dataset.face === face)));

diff --git a/kurichi-stickers2/README.md b/kurichi-stickers2/README.md
@@ -31,3 +31,7 @@ JavaScript syntax and local asset references checked. Browser QA at desktop and 
 ## Artwork update: 2.2-head version
 
 All11 front/back portraits and hero characters use the approved approximately2.2-head proportions. The isolated lower-left Whoopie Kurichi product is now placed beside the front name on its right; it is included in the name print layer and matching white mask. Cache-version query:2p2-20261118. Print data: `output/imagegen/ny-cyber-kurichi-2p2-final-20261118/`.
+
+## Favorite Kurichi field
+
+Each character includes `favorite_kurichi`, matching the product depicted beside the front name. It is shown on the physical reverse, dialog profile, and no-script profile. Updated reverse artwork version: `favorites-20261118`.
